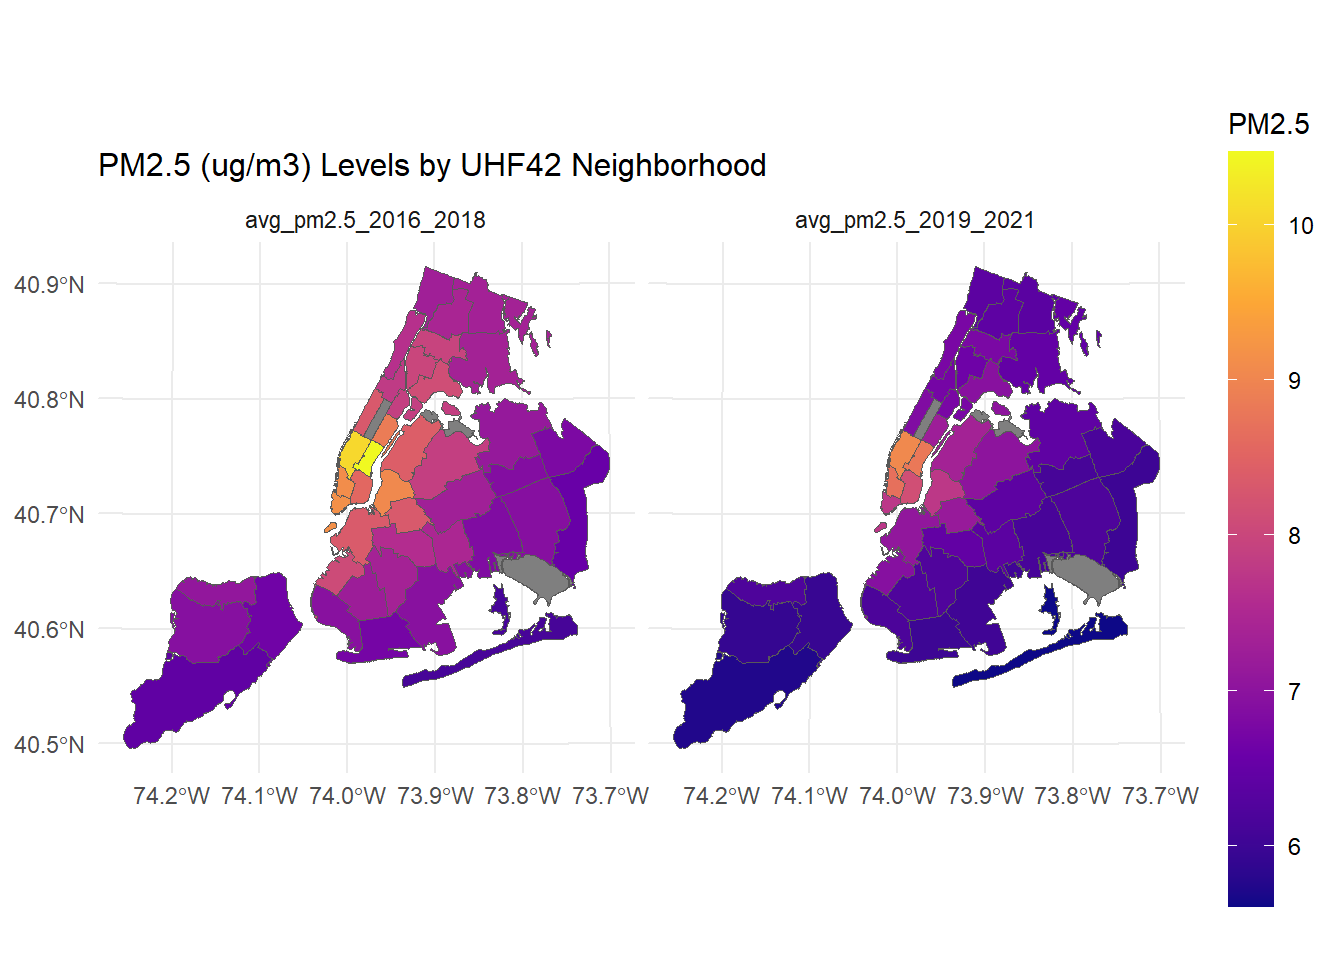
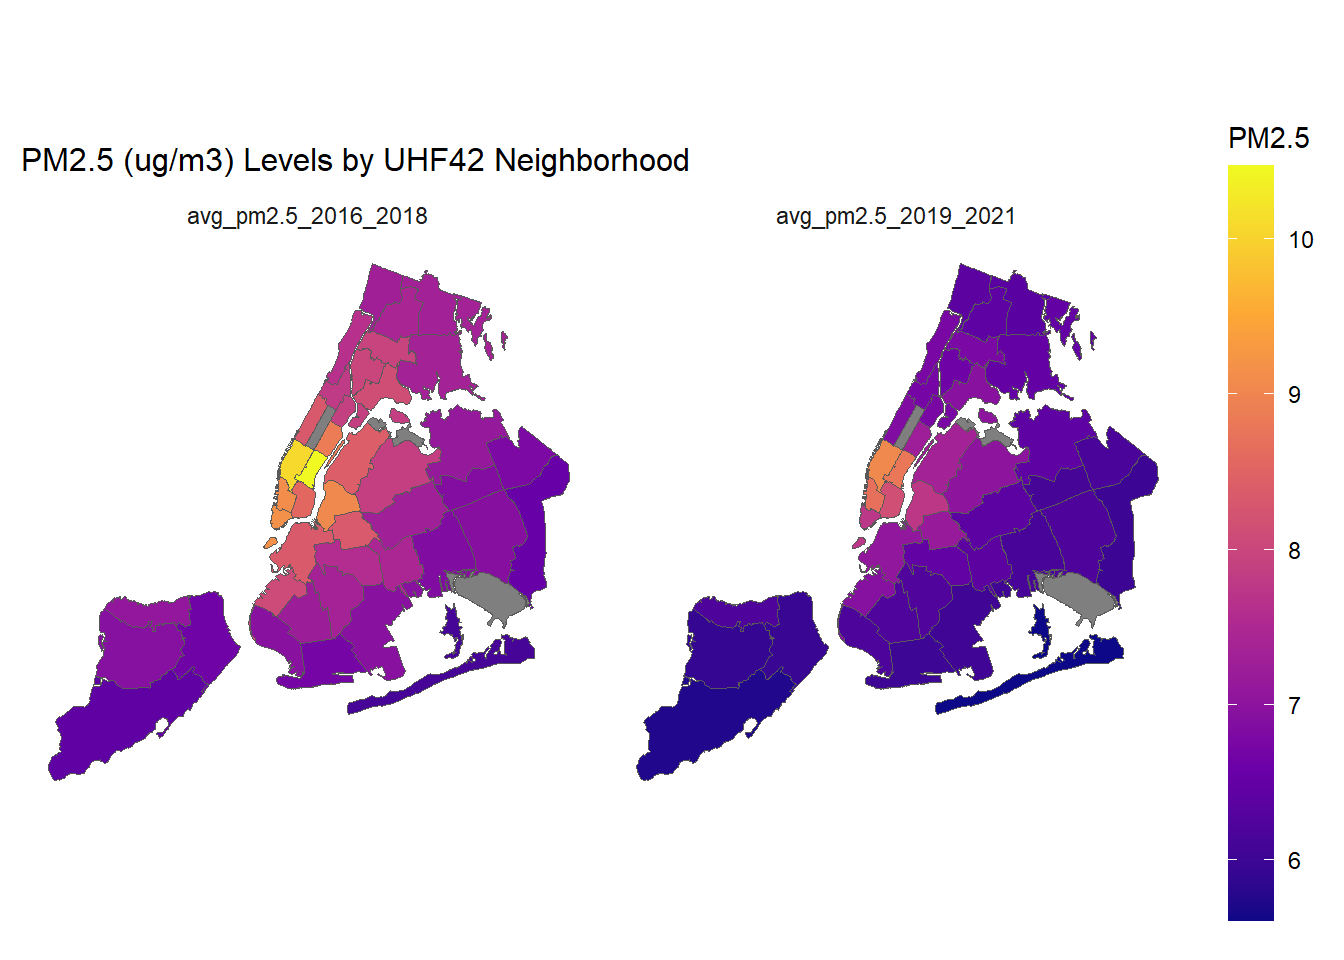
Add greenspace plot description

diff --git a/exploratory_data_analysis.html b/exploratory_data_analysis.html
@@ -385,8 +385,8 @@ div.tocify {
 <div id="exploratory-data-analysis" class="section level1">
 <h1>Exploratory Data Analysis</h1>
 <div id="ed-visits-and-hospitalizations-between-2016-2018-and-2019-2021"
-class="section level2">
-<h2>ED Visits and Hospitalizations between 2016-2018 and 2019-2021</h2>
+class="section level4">
+<h4>ED Visits and Hospitalizations between 2016-2018 and 2019-2021</h4>
 <pre class="r"><code># Load ED data for 2016-2018
 
 ed_2016_2018 = 
@@ -421,11 +421,12 @@ borough_data &lt;- borough_data %&gt;%
 
 map_data &lt;- nyc_zip_sf %&gt;%
   left_join(borough_data, by = &quot;boro_name&quot;)</code></pre>
+</div>
 <div
 id="emergency-department-visit-rates-per-10000-children-aged-0-17-years"
-class="section level3">
-<h3>Emergency Department Visit Rates per 10,000 children (Aged 0-17
-Years)</h3>
+class="section level4">
+<h4>Emergency Department Visit Rates per 10,000 children (Aged 0-17
+Years)</h4>
 <table>
 <thead>
 <tr class="header">
@@ -519,9 +520,9 @@ related to the COVID-19 pandemic’s impact on healthcare utilization
 patterns.</p>
 </div>
 <div id="asthma-hospitalization-rate-per-10000-children-aged-0-17-years"
-class="section level3">
-<h3>Asthma hospitalization rate per 10,000 children (aged 0-17
-years)</h3>
+class="section level4">
+<h4>Asthma hospitalization rate per 10,000 children (aged 0-17
+years)</h4>
 <table>
 <thead>
 <tr class="header">
@@ -617,7 +618,6 @@ the unequal distribution of child asthma burden across New York City.
 This suggests underlying socioeconomic and/or environmental factors
 affecting childhood asthma rates across different parts of the city.</p>
 </div>
-</div>
 <div id="fine-particulate-matter-pm2.5" class="section level2">
 <h2>Fine Particulate Matter (PM2.5)</h2>
 <pre class="r"><code># Load PM data
@@ -658,8 +658,8 @@ tidy_analysis_pm =
     names_prefix = &quot;avg_pm2.5_&quot;
   )</code></pre>
 <div id="average-pm2.5-levels-μgm³-between-2016-2018-and-2019-2021"
-class="section level3">
-<h3>Average PM2.5 Levels (μg/m³) Between 2016-2018 and 2019-2021</h3>
+class="section level4">
+<h4>Average PM2.5 Levels (μg/m³) Between 2016-2018 and 2019-2021</h4>
 <pre class="r"><code># Plot of average PM2.5 levels by borough between 2016-2018 and 2019-2021
 
 tidy_analysis_pm |&gt;
@@ -743,9 +743,9 @@ evidenced by the shortest bars in the plot.</p>
 </div>
 <div
 id="pm2.5-levels-by-united-hospital-fund-uhf42-neighborhoods-2016-2018-vs.-2019-2021"
-class="section level3">
-<h3>PM2.5 Levels by United Hospital Fund (UHF42) Neighborhoods,
-2016-2018 vs. 2019-2021</h3>
+class="section level4">
+<h4>PM2.5 Levels by United Hospital Fund (UHF42) Neighborhoods,
+2016-2018 vs. 2019-2021</h4>
 <pre class="r"><code># Load NYC geospatial data
 
 geography = 
@@ -819,7 +819,11 @@ heat_map_pm2.5 &lt;- ggplot() +
   theme(
     plot.title = element_text(size = 12),
     legend.position = &quot;right&quot;,
-    legend.key.height = unit(2, &quot;cm&quot;)
+    legend.key.height = unit(2, &quot;cm&quot;),
+    panel.grid = element_blank(),          
+    axis.text = element_blank(),           
+    axis.ticks = element_blank(),         
+    axis.title = element_blank()          
   )
 
 # Show heat map for PM2.5 
@@ -844,10 +848,21 @@ period.</p>
 <h2>Greenspace</h2>
 <div id="borough-and-year-comparison" class="section level4">
 <h4>Borough and Year Comparison</h4>
-<p><img src="exploratory_data_analysis_files/figure-html/unnamed-chunk-11-1.png" width="672" /></p>
-<p>Bronx had the least amount of greenspace, followed by Manhattan,
-Brooklyn, and Queens. Staten Island had the highest amount of
-greenspace. This trend is similar between both year groups.</p>
+<p><img src="exploratory_data_analysis_files/figure-html/unnamed-chunk-14-1.png" width="672" /></p>
+<p>Analysis of greenspace distribution across NYC boroughs shows
+consistent patterns between 2016-2018 and 2019-2021, with notable
+differences in total acreage between boroughs. Staten Island maintained
+substantially higher greenspace coverage than other boroughs in both
+periods, reaching approximately 3,000 total acres in 2019-2021. Queens
+ranked second with around 2,200 acres, while Brooklyn and Manhattan
+showed moderate levels of greenspace at approximately 1,800 acres
+each.</p>
+<p>The Bronx consistently had the lowest greenspace coverage, though it
+showed a slight increase from around 1,100 acres in 2016-2018 to 1,200
+acres in 2019-2021. The ranking of boroughs based on greenspace coverage
+was relatively consistent across both time periods, indicating fairly
+constant disparities in greenspace access over the time periods of
+interest.</p>
 </div>
 <div id="greenspace-increase" class="section level4">
 <h4>Greenspace increase</h4>
@@ -899,7 +914,7 @@ increase (258.720 acres) in greenspaces and Manhattan had the least
 </div>
 <div id="greenspace-types" class="section level4">
 <h4>Greenspace Types</h4>
-<p><img src="exploratory_data_analysis_files/figure-html/unnamed-chunk-15-1.png" width="672" /></p>
+<p><img src="exploratory_data_analysis_files/figure-html/unnamed-chunk-18-1.png" width="672" /></p>
 <p>In terms of total acres, flagship parks make up the largest
 proportion of NYC greenspace. This trend is similar for both year
 groups.</p>
@@ -1074,7 +1089,7 @@ ggplot(all_temp_month, aes(x = months, y = avg_month, color = borough)) +
     color = &quot;Borough&quot;
   ) +
   theme_minimal()</code></pre>
-<p><img src="exploratory_data_analysis_files/figure-html/unnamed-chunk-20-1.png" width="672" /></p>
+<p><img src="exploratory_data_analysis_files/figure-html/unnamed-chunk-23-1.png" width="672" /></p>
 </div>
 <div id="max-min-mean-temperature-trend-by-year-and-borough"
 class="section level4">
@@ -1116,7 +1131,7 @@ ggplot(long_data, aes(x = years, y = Temperature, color = Temperature_Type, grou
                &quot;mean_temp&quot; = &quot;Mean Temperature&quot;)) +
   theme_minimal() +                    
   facet_wrap(~ borough)  </code></pre>
-<p><img src="exploratory_data_analysis_files/figure-html/unnamed-chunk-21-1.png" width="672" /></p>
+<p><img src="exploratory_data_analysis_files/figure-html/unnamed-chunk-24-1.png" width="672" /></p>
 </div>
 <div id="average-temperature-change-by-borough" class="section level4">
 <h4>Average temperature change by borough</h4>
@@ -1208,7 +1223,7 @@ Bronx showed the biggest increase.</p>
        x = &quot;Date Group&quot;,
        y = &quot;Average Temperature&quot;) +
   theme_minimal()</code></pre>
-<p><img src="exploratory_data_analysis_files/figure-html/unnamed-chunk-23-1.png" width="672" /></p>
+<p><img src="exploratory_data_analysis_files/figure-html/unnamed-chunk-26-1.png" width="672" /></p>
 </div>
 </div>
 </div>
